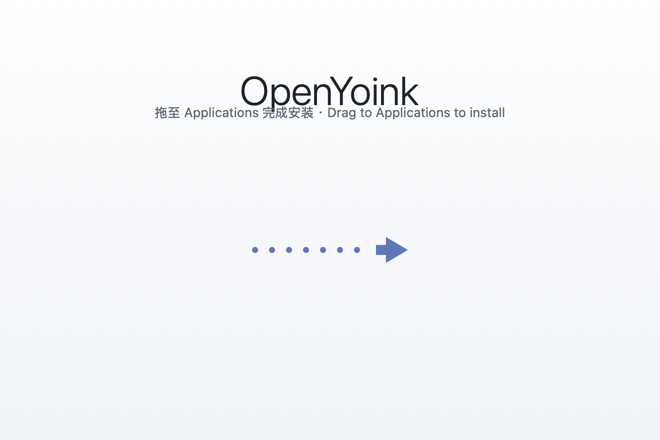
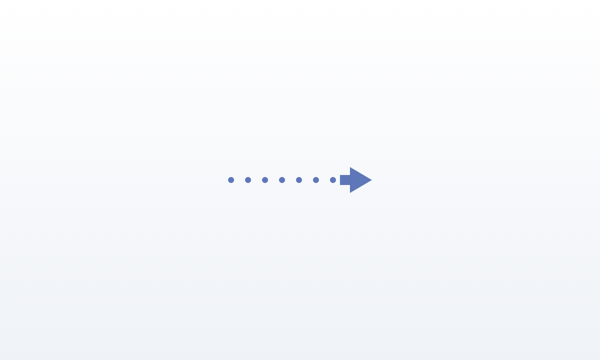
DMG installer: text-free design per review
Left app icon, dotted arrow in the middle, Applications alias on the
right — title/subtitle removed; window tightened to 600x360 with the
icon row vertically centered

Changed region(s): [[0.21, 0.1528, 0.78, 0.275], [0.36, 0.4583, 0.63, 0.6111]]

diff --git a/Scripts/generate-dmg-background.swift b/Scripts/generate-dmg-background.swift
@@ -1,23 +1,21 @@
-#!/usr/bin/env swift
-//
 // generate-dmg-background.swift — 生成 DMG 安装窗口背景图（自绘，无第三方资源）。
 //
 // 运行：swift Scripts/generate-dmg-background.swift
-// 产物：Scripts/dmg-background.png（660×440 px —— 必须与窗口 pt 尺寸 1:1：
+// 产物：Scripts/dmg-background.png（600×360 px —— 必须与窗口 pt 尺寸 1:1：
 //   Finder 按图片像素尺寸以 pt 为单位铺背景，@2x 会放大一倍导致元素出界）。
 //   为兼顾 Retina 观感，全部内容先在 2x 离屏画布绘制再降采样到 1x
-//   （超采样抗锯齿，文字不发虚）。
+//   （超采样抗锯齿）。
 //
 // 布局约定（与 make-dmg.sh 的 Finder 布局参数一致，单位均为 1x pt/px）：
-//   窗口内容 660×440；app 图标中心 (160, 250)、Applications 别名中心
-//   (500, 250)、图标 128pt；标题/副标题/点状箭头烘焙在背景图里。
-//   NSGraphicsContext 原点左下：y = H - 距顶距离。
+//   窗口内容 600×360；app 图标中心 (140, 180)、Applications 别名中心
+//   (460, 180)、图标 128pt；两图标之间只画点状引导箭头（无文字，按作者
+//   要求）。NSGraphicsContext 原点左下：y = H - 距顶距离。
 
 import AppKit
 
 // 1x 输出尺寸与 2x 超采样因子。
-let W: CGFloat = 660
-let H: CGFloat = 440
+let W: CGFloat = 600
+let H: CGFloat = 360
 let SS: CGFloat = 2
 
 func makeRep(_ w: CGFloat, _ h: CGFloat) -> NSBitmapImageRep {
@@ -46,28 +44,10 @@ let bg = NSGradient(colors: [
 ])!
 bg.draw(in: NSRect(x: 0, y: 0, width: W, height: H), angle: -90)
 
-// 2. 标题：大号细字重（优雅风格，超采样后依然锐利）。
-let titleAttrs: [NSAttributedString.Key: Any] = [
-    .font: NSFont.systemFont(ofSize: 40, weight: .light),
-    .foregroundColor: NSColor(srgbRed: 0.16, green: 0.18, blue: 0.22, alpha: 1.0),
-]
-let title = NSAttributedString(string: "OpenYoink", attributes: titleAttrs)
-let titleSize = title.size()
-title.draw(at: NSPoint(x: (W - titleSize.width) / 2, y: H - 66 - titleSize.height))
-
-// 3. 副标题：小号常规字重，中性灰。
-let subAttrs: [NSAttributedString.Key: Any] = [
-    .font: NSFont.systemFont(ofSize: 13, weight: .regular),
-    .foregroundColor: NSColor(srgbRed: 0.44, green: 0.47, blue: 0.52, alpha: 1.0),
-]
-let subtitle = NSAttributedString(string: "拖至 Applications 完成安装 · Drag to Applications to install", attributes: subAttrs)
-let subSize = subtitle.size()
-subtitle.draw(at: NSPoint(x: (W - subSize.width) / 2, y: H - 104 - subSize.height))
-
-// 4. 引导箭头：点状虚线 + 实心箭头头部，灰蓝色，位于图标行（距顶 250 → y=190）。
-let arrowY: CGFloat = H - 250
-let startX: CGFloat = 252   // app 图标右缘 224 → 留 28pt
-let endX: CGFloat = 408     // Applications 左缘 436 → 留 28pt
+// 2. 引导箭头：点状虚线 + 实心箭头头部，灰蓝色，垂直居中（图标行 y=180 距顶）。
+let arrowY: CGFloat = H - 180
+let startX: CGFloat = 228   // app 图标右缘 204 → 留 24pt
+let endX: CGFloat = 372     // Applications 左缘 396 → 留 24pt
 let dotColor = NSColor(srgbRed: 0.4, green: 0.52, blue: 0.76, alpha: 0.95)
 
 dotColor.setFill()
@@ -90,7 +70,7 @@ head.fill()
 
 NSGraphicsContext.restoreGraphicsState()
 
-// 5. 超采样降落到 1x 画布（高质量插值）。
+// 3. 超采样降落到 1x 画布（高质量插值）。
 let final = makeRep(W, H)
 NSGraphicsContext.saveGraphicsState()
 NSGraphicsContext.current = NSGraphicsContext(bitmapImageRep: final)
@@ -109,3 +89,4 @@ do {
 } catch {
     fatalError("Failed to write PNG: \(error.localizedDescription)")
 }
+
